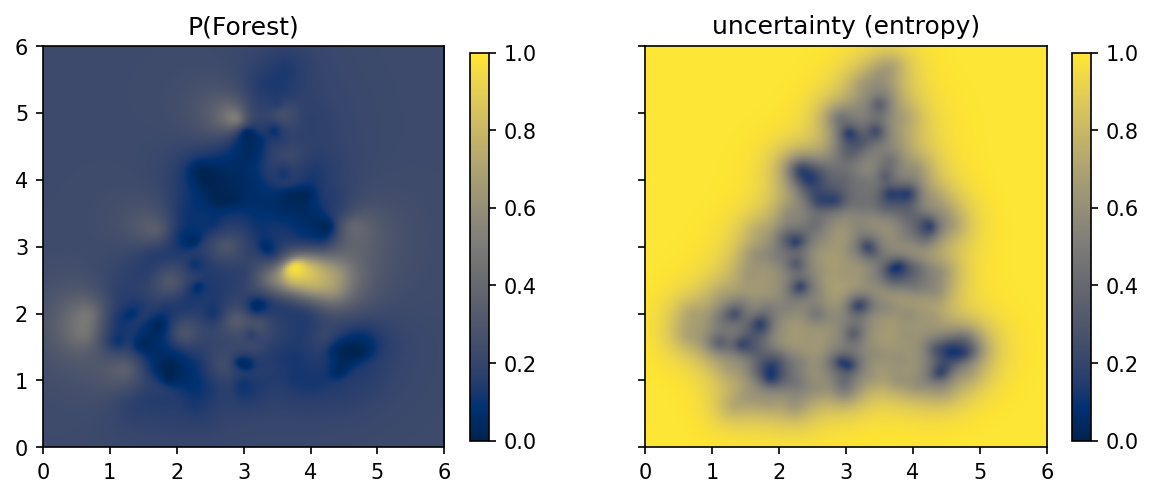
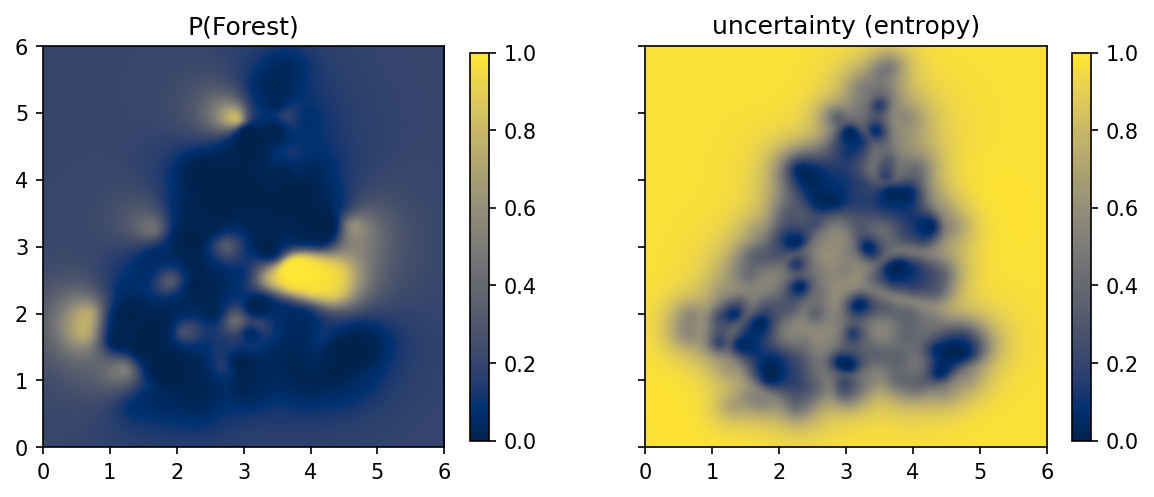
CategoricalGaussianIndicator reports a probability
Its predict took the other categories' "negative" term from the normal
density where the formula asks for the probability of a negative value
(log_lik always took it from the CDF), leaving a log(sd) in each category's
score. Now dist.log_cdf(-tol). Training, the bound, the realizations and
divided do not move; probability, entropy, uncertainty, indicator_predicted,
and predicted/proportions where a label flips do. HierarchicalGaussianIndicator
was already right. Measured on chapters 6 and 16 (changelog 0.9.15); the
figures 06-jura-probability.png and 16-rock-maps.png regenerated. New
test_indicator_probability.py.

The roadmap gains: L, LithologicalControl (the logged rock type as an
observation of the latent geology, with its check and gates); M, the
quadrature's rule should follow the input; and three rejected items -- four
cheaper forms of the conditioned quadrature, repairing the conditional
variance's clamp, and whitening the second moment into one-dimensional
quadratures.

Changed region(s): [[0.0312, 0.0905, 0.3744, 0.8753], [0.5615, 0.0905, 0.8735, 0.8753]]

diff --git a/geoml/test/test_indicator_probability.py b/geoml/test/test_indicator_probability.py
@@ -1,0 +1,53 @@
+"""What `CategoricalGaussianIndicator` reports as a category's probability.
+
+A category holds a location where its own latent value is positive and every
+other category's is negative. Both are probabilities of a sign under the
+latent marginals, so a density has no place in the formula: until 0.9.15 the
+negative side was one, which left a `log(sd)` in the winner's score.
+"""
+import numpy as np
+import pytest
+import tensorflow as tf
+from scipy.special import log_ndtr, softmax
+
+import geoml.likelihood as lk
+
+
+def _predicted(mu, sd, **kwargs):
+    mu = tf.constant(mu, tf.float64)
+    var = tf.constant(np.asarray(sd) ** 2, tf.float64)
+    sims = tf.zeros(mu.shape + [5], tf.float64)
+    return lk.CategoricalGaussianIndicator(
+        mu.shape[1], **kwargs).predict(mu, var, sims, var)
+
+
+def test_the_probability_is_of_a_sign_in_every_column():
+    """Each category's positive column and the others' negative ones, against
+    the same expression written with SciPy's normal CDF."""
+    mu = np.array([[1.0, -0.5, 0.2], [-1.0, -2.0, -0.1], [0.3, 0.4, -3.0]])
+    sd = np.array([[0.5, 1.0, 0.8], [0.3, 0.9, 1.0], [1.0, 0.2, 0.6]])
+    tol = 1e-3
+
+    negative = log_ndtr((-tol - mu) / sd)
+    positive = log_ndtr((mu - tol) / sd)
+    reference = softmax(negative.sum(axis=1, keepdims=True) - negative
+                        + positive, axis=1)
+
+    np.testing.assert_allclose(_predicted(mu, sd)["probability"], reference)
+
+
+def test_the_more_uncertain_category_gets_no_credit_for_it():
+    """Category 0 stands further above zero in its own units than category 1,
+    and category 1 has twice its standard deviation. The density's `log(sd)`
+    handed the location to category 1."""
+    out = _predicted([[0.05, -0.1]], [[0.5, 1.0]])
+    assert np.argmax(out["probability"], axis=1)[0] == 0
+    assert float(out["indicators"][0, 0]) > 0.0
+
+
+@pytest.mark.parametrize("sd", [0.2, 1.0])
+def test_a_clear_call_reads_as_one(sd):
+    """Both columns several standard deviations the right way: the density's
+    term cancelled the evidence of the column saying no."""
+    out = _predicted([[3 * sd, -3 * sd]], [[sd, sd]])
+    assert float(out["probability"][0, 0]) > 0.9999

diff --git a/geoml/likelihood.py b/geoml/likelihood.py
@@ -2271,7 +2271,7 @@ class CategoricalGaussianIndicator(_CategoricalLikelihood):
 
         dist = _tfd.Normal(mu, _tf.sqrt(var))
         log_prob_positive = dist.log_survival_function(self.tol)
-        log_prob_negative = dist.log_prob(- self.tol)
+        log_prob_negative = dist.log_cdf(- self.tol)
 
         # probability of being class i AND not being the others -- the whole
         # row of negative log-probabilities, with category i's own swapped

diff --git a/docs/roadmap.md b/docs/roadmap.md
@@ -2647,6 +2647,65 @@ own 0.603 -- a near miss, which the anisotropy and the separate share GP
 closed; the plain chain was 58.6 / 5.58 / 8.46 there, so the configuration
 helped the single likelihood most.
 
+**L — `LithologicalControl`: the logged rock type as an observation of the
+population** (requested 2026-10-31; proposed, nothing measured yet). Reading
+a rock type and a `LikelihoodMixture`'s shares off one latent node ties the
+*field*, and the effect is weak. Given the share columns `g`, the rock `c` and
+the population are independent:
+`log p(c | g) + log Σ_k π_k(g) exp(t_k)`, with `t_k` population k's expected
+log-density of the metals. The rock reaches a row's population only by moving
+`g`, and three things blunt that. A row's log-odds of population is
+`Δlog π + Δt`, and `Δt` likely dominates at an assayed row: in-sample agreement
+with `Code_Simple` above is 0.94 in every arm, including the one that never
+sees the rock. The mixture's own `amplitude` and `bias` let the shares' contact
+sit away from the rock's. And one field has several read-outs: a separate
+probit per column in training, `probability`, the largest column in a
+realization, a scaled softmax in the shares. With the rock on every logged
+interval, the rock's own call has recall 0.219 on Tom East and the shares
+0.555, off the same columns.
+
+This class ties the *label*: one likelihood over both variables, with a trained
+`P(c | k)`, populations by rock categories, and per row
+
+`log Σ_k π_k(g) · P(c | k) · exp(t_k)`
+
+`exp(t_k)` dropping out where a row has no assay and `P(c | k)` where it has
+no log. The rock then sits in the same sum as the metals, so it decides
+ambiguous rows' population directly, and through them each population's noise
+and warping. The rock's probability is `Σ_k E[π_k] P(c | k)` and its
+realizations come from the `population` store, so there is one contact.
+`amplitude` and `bias` stay and can no longer separate the two. An identity
+`P(c | k)` would be hard domains, forcing the rows where the log and the assay
+disagree (6% on Tom East) into the wrong population; trained, it absorbs them
+and reports how often they disagree. The number of populations need not match
+the number of categories.
+
+What it asks for:
+- **One likelihood reading two variables.** `_data_log_lik` gives each
+  likelihood its own variable and adds the results, and a sum inside a log does
+  not split that way. How a likelihood is named against two variables, and how
+  `predict` writes both, is the first design question; `update`,
+  `cross_validate`, `predict_measurements` and the catalogue all follow from it.
+- **Contact rows.** `is_boundary` needs a term; `log π_a + log π_b`, which
+  peaks at equal shares, is the natural candidate.
+- **The start.** `P(c | k)` starts from the clustering's overlap with the log,
+  or the population labels can switch.
+
+**Check before building**, on Tom East's tied arm: count the rows whose
+`responsibilities` change population with and without the rock. If almost none
+do, the assay decides the populations, and the class would change mainly the
+rock-only rows and the rock's contact, not the grades.
+
+**Gates**, against the tied and the metals-alone arms above, out of fold by
+hole: CRPS per metal; balanced accuracy of the rock on every logged interval;
+and the rock's probabilities against their own frequency, since the indicator
+they replace overstates its confidence (0.9.15: stated 0.821, right 0.680 on
+chapter 16). The rock type is barely predictable between holes on Tom East, so
+a large CRPS gain is not to be expected. The rock's scores in the tables above
+were taken before 0.9.15, when `predict` read a density; on chapters 6 and 16
+the fix moved under 1% of the grid's labels, and its effect on Tom East has not
+been measured.
+
 **S — Say when a heavy-tailed noise under a log-like warping has no
 finite mean** (requested 2026-10-15, after a GeoScape mixture that would
 not show its two populations; **the warning built 2026-10-16, 0.9.3**:
@@ -2817,7 +2876,9 @@ against the second moment.
   less at 16 draws and 6.0-8.4x at 4. Eager calls flatter the draws;
   traced, on the Walker model of `phase3_walker.py` (120 k-means points, two
   outputs), 88 ms a step against 20 at 4 draws, on 200 steps.
-- **Training, being measured** (stage B of that project, started
+- **Training, stopped at the user's request with 48 runs** (read 2026-11-01
+  under "The quadrature's rule should follow the input" below; stage B of
+  that project, started
   2026-10-30, Adam from one start, three seeds, one held-out scorer for
   every arm): 1, 4, 16 draws (and 64 on the folded section) against the
   joint rule, on the folded section, Walker as in `phase3_walker.py`, the
@@ -2888,6 +2949,25 @@ package read by its moments, the draws by their mixture at S = 256):
 - **On a GP on a GP it stays near the flat GP**, on both leaves and at 64
   draws. The cause is not established. Sharing `w` across draws ties the
   inducing means together (`L_s w`) and is the first thing to test.
+- **Untying the means helps by about a nat and does not close the gap**
+  (2026-11-02; `C:\Users\Public\qm\neg\site`, the prototype with one change).
+  Pseudo-data `y` and `D` shared by the draws, `q(u | Z_s) = N(K_s B_s y, K_s -
+  K_s B_s K_s)`, the form of Ober et al. 2021: a leaf's values stay at `y` while
+  their locations move, and it is a true bound. Gaussian leaf, 64 draws, seeds
+  2026, 1, 2, 11, 12, 13, against the package on the same seeds:
+
+  | Network | Package | `K_s` | Pseudo-data |
+  |---|---|---|---|
+  | GP on a GP | -9.02 | -12.32 | -11.23, worse on 6 of 6 |
+  | Beside the coordinates | -5.22, 3 of 6 in the -2 basin | -7.66, none | -6.65, one (-3.3), worse on 4 of 6 |
+
+  Held-out CRPS beside the coordinates 0.299 against the package's 0.269, CRPS
+  against the true field 0.212 against 0.186. The fit trades the hidden layer
+  for noise (0.215 against the clamp's 0.153, 0.400 against 0.279 on the GP on a
+  GP), as the research report's narrow-hidden-layer argument expects. The
+  per-draw collapse (its H) was not run: it needs the closed `E[k_i k_j | Z]`
+  and a per-draw solve at prediction, and it differs only by a freer leaf. A
+  Matérn leaf was not run on this form either; there `K_s` already ties.
 - **Cost** (the Matérn leaf beside the coordinates, the median single step,
   CPU, four threads; a `train_full` called in blocks retraces inside the
   timed window, so time single steps):
@@ -2969,6 +3049,100 @@ measurement); this keeps the work and makes it cheaper.
   levers planned after it -- the realizations' feature products and
   `k (K + D)^-1 kᵀ` in float32 -- were measured and rejected (Settled by
   measurement).
+
+**M — The quadrature's rule should follow the input** (measured 2026-11-01;
+nothing in the package changed; harness and tables in
+`C:\Users\Public\qm`, outside the repository). The models fall into two
+regimes, and one rule serves neither well. Against a Hermite grid of 31 points
+a dimension (13 in three dimensions; chapter 17's against 9, the finer one out
+of memory), at the rows an expert carries:
+
+| Model | nodes | input sd / range | nodes with `k S kᵀ` > 1 | clamp's addition / variance | spread's share | variance error, median, p95 | gradient error |
+|---|---|---|---|---|---|---|---|
+| GeoScape walk network | 64 | 0.02 | 0 | 0 | at most 0.007 | under 1e-5 | 0.6-1.5e-4 |
+| Chapter 16 | 49 | 0.05-0.07 | 3-7% | 0 | at most 0.02 | 1e-5, 3e-5 to 2e-4 | 4e-5 to 7e-4 |
+| Chapter 17 | 64 | 0.07 | 37% | 0.13 | 0.45 | 0.023, 0.31 | 0.021 |
+| Folded section, GP on a GP, 2000 steps | 49 | 0.13-0.17 | 86% | 1.2 | 0.75 | 0.020, 0.090 | 0.051 |
+| Folded section, walk, 2000 steps | 49 | 0.01-0.08 | 70% | 0.46 | 0.39 | 0.033, 0.79 | 0.042 |
+| Walker, GP on a GP, 2000 steps | 49 | 0.33-0.43 | 90% | 19 | 1.00 | 0.036, 0.26 | 0.092 |
+
+`gate_nodes.py` reported a median of 0.7% for the 7x7 grid; the medians here
+are 2-4% on the deep networks, and the tails are what that gate did not show.
+The walk's p95 is 0.10 over the larger half of the variances, so those errors
+sit at rows of small variance.
+
+- **Where the input is nearly certain the nodes are wasted.** On the GeoScape
+  walk network (`A_model`, 32 experts, two epochs of `train_by_expert` on the
+  GPU, the same seed, `_input_rule` replaced for three dimensions):
+
+  | Rule | seconds an epoch | GPU peak | bound after two epochs | parameters, against 64 nodes |
+  |---|---|---|---|---|
+  | 64 Sobol nodes | 404 | 8.3 GB | -16919.363 | |
+  | Stroud's degree 5, 14 nodes | 195 | 7.2 GB | -16919.369 | 2e-5 |
+  | The axes, degree 3, 6 nodes | 151 | 6.0 GB | -16919.337 | 4e-5 |
+
+  The bound rose 619 over those epochs. At fixed parameters the 14 nodes are
+  more accurate than the 64 (gradient 1e-5 against 1e-4). This is not the
+  rejected middle ground: the chain and the conditioning stay. Chapter 16 holds
+  at 9 nodes too (p95 1e-3, gradient 1e-3). Not tried: held-out scores, longer
+  training, prediction.
+- **The rule cannot be chosen from the input's spread alone.** Chapter 17 and
+  chapter 16 have about the same sd / range, and 14 nodes do not hold on 17
+  (p95 0.55 against the 64 nodes' 0.31). What separates them is the clamp. The
+  question left is the switch: an option a model sets, or a choice made in the
+  graph from a cheap pilot.
+- **The corners of the 7x7 grid carry nothing.** Dropping the nodes that hold
+  the last 1e-3 of the weight leaves 31 of 49. Variance p95 0.088 against 0.090,
+  0.79 against 0.79, 0.26 against 0.26 on the three deep cases, 5e-4 against
+  2e-4 on chapter 16; Walker's median alone moves, 0.036 to 0.057. Time 0.6-0.9
+  of the full grid, about 0.63 at the larger sizes. Dropping to 21 nodes starts
+  to cost on Walker.
+  Numbers move, so it is not bit-compatible.
+- **Exact arithmetic that is cheaper** (isolated calls, the same sums in one
+  chunk; a whole step not measured). On a tensor grid each Gaussian component
+  of the kernel is a product over the coordinates, so a coordinate needs its
+  own 7 nodes rather than the grid's 49 and a certain one none: 5e-16 from
+  the package's kernel, 0.69-1.0 of the time on the CPU, 0.75-0.91 on the GPU;
+  beside the coordinates, also 49 nodes against 64, 0.39-0.51, though no gain
+  at the folded section's 192 rows on the GPU. And `k S kᵀ` with a gradient by hand, the
+  forward product reused: 0.64-0.93 on either device, 3e-15 from
+  autodifferentiation. With the corners dropped, the three together are 0.39-0.44
+  on the GPU and 0.46-0.61 on the CPU with a Gaussian kernel. On chapter 16's
+  CPU, eight components under XLA, they are slower than the package, 1.2,
+  which is unexplained and comes first. The prototype's components are unrolled,
+  so its memory is not yet what the package's would be.
+- **Where the input is uncertain the bias is real and the clamp is why.**
+  Conditioned on a node the kernel `k` is larger than the expected kernel in
+  `(K + D)^-1` allows, so `k S kᵀ` passes one. After 2000 steps on the deep
+  networks it does at 70-90% of the nodes, where the variance is then zero and
+  the gradient through it is zero, and what the clamp adds is up to 19 times the
+  variance (raw, the conditional variance is far below zero). The integrand has
+  a kink, which is why a rule's polynomial degree buys little there and even
+  the 15-point grid is 32% off at the walk's p95. This is the model rather than
+  the arithmetic, and it is the larger question: chapter 17 is in this regime.
+  Whether a consistent `K` per node can be afforded, or a different limit than
+  a clamp is right, is open.
+- **Draws per location suit this regime and not the other.** A gradient by 16
+  draws is 0.13-0.36 off on chapter 17 and the folded section against the fixed
+  nodes' 0.02-0.05, but its error averages and theirs does not; on the GeoScape
+  network it is 0.18-0.31 off against the nodes' 1e-4. Time 0.23-0.62 of the
+  package. The stopped stage B runs, 2000 steps, new-location log score, mean of
+  two seeds (one on `d1_dp2`), the 49 nodes against 4 and 16 draws, seconds a
+  step in brackets: `d1_dp2` -0.268 (0.72), -0.296 (0.09), -0.290 (0.27);
+  folded -0.720 (0.010), -0.798 (0.004), -0.644 (0.008); Walker -6.203 (0.081),
+  -6.210 (0.020), -6.211 (0.041). Against 7 nodes the draws save little: `d1_dp1`
+  -0.075 (0.080), -0.139 (0.057), -0.040 (0.172). Too few seeds to decide. Plain
+  draws, unchunked; randomized QMC draws (Buchholz et al., 2018) are untried.
+- **Where a step goes** (one call, one chunk): the backward pass is 60-80%.
+  Eight-component kernels spend their time in the kernel (GeoScape 0.6 of the
+  CPU's call, `k S kᵀ` 0.11-0.17), a Gaussian kernel at large `m` in `k S kᵀ`
+  (chapter 17 about half). Forcing the floor of four nodes a chunk costs 3x on
+  the GPU in an isolated GeoScape call, at half the peak.
+- **In order**: (1) the rule as an option, off by default, gated on the GeoScape
+  network to convergence and held out; (2) the corners dropped; (3) the kernel
+  by coordinates and `k S kᵀ` by hand, after the chapter 16 CPU regression is
+  understood; (4) the clamp, as a modelling question of its own; (5) stage B
+  finished, if (4) leaves it worth doing.
 
 ---
 
@@ -4221,6 +4395,72 @@ merge could save, moved a prediction batch 0.8% on chapter 17's walked
 model on the CPU, 0.7% on the GPU, and -1.1% on the GeoScape walk network
 on the CPU (`docs/benchmarks/compute_review.py`, the `roots` part): the
 duplicated kernel is not where a batch's time goes.
+
+**Four cheaper forms of the conditioned quadrature -- rejected** (2026-11-01;
+`C:\Users\Public\qm`, under "The quadrature's rule should follow the input").
+- **`k S kᵀ` by `matmul` in place of `einsum`**: 1.0-1.4 of the time on the CPU
+  and 1.0-1.15 on the GPU; the `einsum` is not the cost.
+- **One Gram matrix per row, then one trace per output** (`n q m²` once, not per
+  output): it cannot clamp node by node, which is up to 19 times the variance,
+  and it is no faster at one output (Walker 2.1x slower on the CPU).
+- **A rule turned at random each step** (Genz and Monahan's stochastic
+  spherical rules, the radii left fixed): the mean of 16 turns is as far from
+  the reference as one turn (gradient 0.131 against 0.133 on the folded section,
+  0.492 against 0.493 on Walker). The error is in the radii, and turning does
+  not move it.
+- **Cubatures of fewer nodes for the same degree** (Möller's 12 at degree 7,
+  rings of 7, 16 and 21): no better than the Hermite grid of the same size on
+  the deep cases, whose integrand has a kink. Rings of 36 at degree 11 did beat
+  the 49 on the folded walk (p95 0.35 against 0.79) and are the one worth a
+  second look.
+- Also mixed, and not adopted alone: a Hermite grid over only the uncertain
+  coordinates beside certain ones. 0.75 of the time; better than 64 Sobol
+  nodes on the folded section (median 4e-4 against 0.009), worse on Walker
+  (gradient 0.087 against 0.018).
+
+**Repairing the conditional variance's clamp -- rejected** (2026-11-02;
+`C:\Users\Public\qm\neg`, theory in the research project's
+`Spatial cross-validation/report/kq_closure.tex`). `1 - k_q (K + D)^-1 k_qᵀ` at
+an input node is a simple-kriging variance on weights solved with the wrong
+covariance, the expected `K` where the node's own is `K_q`, and it goes negative:
+at a fit on the folded section the unclamped mean is -0.039 on the GP on a GP,
+and 76% of rows are negative across their nodes. The clamp is what keeps the
+objective a number, and an active clamp shows the family it would bound is not
+a distribution there, so the objective is not a bound. Every repair removes the
+negatives and predicts no better. New-hole log score on the folded section,
+Gaussian leaf, 2000 steps, seeds 2026, 1, 2, 11, 12, 13:
+
+| Arm | GP on a GP | Beside the coordinates | Walk |
+|---|---|---|---|
+| the clamp (the package) | **-9.02** | **-5.22**, 3 of 6 in the -2 basin | -9.18 |
+| the kriging variance of the same weights (K1) | -10.08 | -8.05, none | -9.09 |
+| K1, one CG step on the weights, mean and variance | -10.81 | -9.34, none | -9.54 |
+| K1, three CG steps | -10.17 | -8.23, none | not run |
+| `K_q` whitened per node, shared `S_w` | -10.76 | -8.76, two seeds, none | not run |
+| first moment only, no spread | -10.75 | -9.37, none | -10.25 |
+
+K1 and the steps lose to the clamp on 5 of 6 seeds on the GP on a GP and 4 or 5
+of 6 beside the coordinates; on the walk K1 ties (3 of 6) and one step is
+slightly behind. The steps cap the largest node variance (2.2 to 0.99 at the
+first fit), so the tail nodes are not why K1 loses. `K_q` per node cost 160x the
+clamp a step. With the hyperparameters trained, K1 narrows the hidden layer
+(sd/range 0.204 to 0.065) and raises the noise (0.279 to 0.312, and 0.153 to
+0.237 beside the coordinates), the opposite of the report's toy, whose
+hyperparameters were fixed. Why the clamp's objective finds the better basin is
+open. The kernel was Gaussian throughout; only three Matérn 3/2 seeds ran, for
+the clamp. `network.py`'s `_mixture_moments` and `models.py` should stop calling
+this quantity a bound; not done yet.
+
+**Whitening the second moment into one-dimensional quadratures -- rejected**
+(2026-11-02; `C:\Users\Public\qm\neg\q1.py`). With independent input
+coordinates and a Gaussian kernel component, `E[k_i k_j]` factors over the
+coordinates into closed one-dimensional integrals: it matches 101 points per
+coordinate to 1e-15, and 7 points per coordinate equal the 7x7 grid to 8e-16.
+It computes the expectation, so it cannot clamp node by node, and the raw
+conditional variance is negative for whole rows (shares 0.76 on the folded
+GP on a GP, 0.99 on Walker, 0.58 on Matern 5/2, 0.50 on chapter 17). It is also
+slower at these sizes: 0.061 s against 0.025, 0.351 against 0.101, 2.166 against
+0.070, 4.03 against 0.397. The spread's quadrature error stays (3e-3 to 9.5e-3).
 
 **The second moment over certain inducing points (the "middle ground") --
 rejected** (2026-10-24). On a GeoScape network of three GP nodes reading a

diff --git a/changelog.md b/changelog.md
@@ -1,3 +1,28 @@
+## version 0.9.15
+* **`CategoricalGaussianIndicator` reports a probability.** Its `predict` took
+the other categories' "negative" term from the normal *density* where the
+formula asks for the probability of a negative value, and `log_lik` always
+took it from the CDF. The density left a `log(sd)` in each category's score and
+largely cancelled what the other columns said against it. Every prediction of
+this likelihood since at least 2022 is affected, and the columns that move are
+`probability`, `entropy`, `uncertainty` and `indicator_predicted`, plus
+`predicted` and `proportions` where a label flips. Training, the bound, `mean`,
+`variance`, the realizations and `divided` do not move, so neither do
+refinement's cuts or anything a metal reads. `HierarchicalGaussianIndicator`
+was already right. Predictions must be redone to change: on points, the new
+probability can also be computed from the stored `indicator_mean` and
+`indicator_variance`.
+
+Measured on chapters 6 and 16, grid and held-out sites. Labels flip at 0.6% and
+0.8% of the grid and at 2 and 1 of 100 held-out sites, every flip the `log(sd)`
+term's. Held-out accuracy goes from 0.600 to 0.620 and from 0.690 to 0.680.
+Stated confidence goes from 0.544 to 0.782 and from 0.551 to 0.821, so **the
+probabilities were too low on average and are now too high on both**: over
+0.95, the call is right 82% and 85% of the time. The Brier score goes from
+0.568 to 0.596 on chapter 6 and from 0.476 to 0.464 on chapter 16, the log
+score from 1.078 to 1.270 and from 0.954 to 0.882. Figures
+`06-jura-probability.png` and `16-rock-maps.png` regenerated.
+
 ## version 0.9.14
 * **`predict_measurements` sizes its answer by the variable's columns.** Since
 0.9.11, when it began placing batches by their rows, it allocated one column
